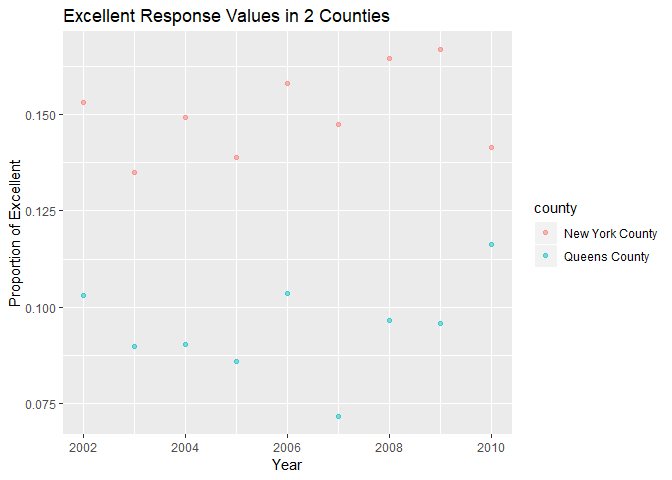
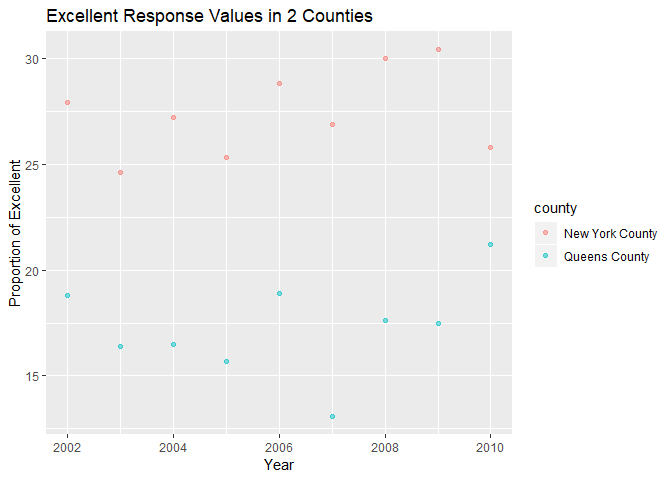
changed proportion variable

diff --git a/p8105_hw2_ph2538.md b/p8105_hw2_ph2538.md
@@ -305,7 +305,7 @@ janitor::clean_names(brfss_smart2010)
     ## #   question_id <chr>, respid <chr>, geo_location <chr>
 
 ``` r
-#focus on the “Overall Health” topic
+#focus on the Overall Health topic
 #exclude variables for class, topic, question, sample size, and everything from lower confidence limit to GeoLocation
 #structure data so that responses (excellent to poor) are variables taking the value of Data_value
 
@@ -315,26 +315,19 @@ clean_brfss = filter(brfss_smart2010, Topic == "Overall Health") %>%
   separate(Locationdesc, into = c("state", "county"), sep = " - ") %>%
   select(-Locationabbr)
 
-#create a new variable showing the proportion of responses that were “Excellent” or “Very Good”
+#create a new variable showing the proportion of responses that were Excellent or Very Good
 clean_brfss$exc_vgood_proportion = (
-  clean_brfss$Excellent + clean_brfss$'Very good') / 
-  sum(clean_brfss$Excellent:clean_brfss$'Very good')
+  clean_brfss$Excellent + clean_brfss$'Very good') 
 ```
-
-    ## Warning in clean_brfss$Excellent:clean_brfss$"Very good": numerical
-    ## expression has 2125 elements: only the first used
-    
-    ## Warning in clean_brfss$Excellent:clean_brfss$"Very good": numerical
-    ## expression has 2125 elements: only the first used
 
 ### Questions for Problem 3
 
-|                                                                                                                                                                      |
-| -------------------------------------------------------------------------------------------------------------------------------------------------------------------- |
-| 1\. How many unique locations are included in the dataset? Is every state represented? What state is observed the most?                                              |
-| 2\. In 2002, what is the median of the “Excellent” response value?                                                                                                   |
-| 3\. Make a histogram of “Excellent” response values in the year 2002.                                                                                                |
-| 4\. Make a scatterplot showing the proportion of “Excellent” response values in New York County and Queens County (both in NY State) in each year from 2002 to 2010. |
+|                                                                                                                                                                    |
+| ------------------------------------------------------------------------------------------------------------------------------------------------------------------ |
+| 1\. How many unique locations are included in the dataset? Is every state represented? What state is observed the most?                                            |
+| 2\. In 2002, what is the median of the Excellent response value?                                                                                                   |
+| 3\. Make a histogram of Excellent response values in the year 2002.                                                                                                |
+| 4\. Make a scatterplot showing the proportion of Excellent response values in New York County and Queens County (both in NY State) in each year from 2002 to 2010. |
 
 ``` r
 #How many unique locations are included in the dataset? Is every state represented? What state is observed the most?
@@ -371,7 +364,7 @@ The results show that New Jersey is observed the most with 146
 observations.
 
 ``` r
-#In 2002, what is the median of the “Excellent” response value?
+#In 2002, what is the median of the Excellent response value?
 
 brfss_2002 = filter(clean_brfss, Year == '2002')
 median(brfss_2002$Excellent, na.rm = TRUE)
@@ -384,7 +377,7 @@ median(brfss_2002$Excellent, na.rm = TRUE)
 #### Question 3
 
 ``` r
-#Make a histogram of “Excellent” response values in the year 2002.
+#Make a histogram of Excellent response values in the year 2002.
 ggplot(brfss_2002, aes(x = Excellent)) + geom_histogram() + labs(title = "Excellent Response Values in 2002")
 ```
 
@@ -397,23 +390,11 @@ ggplot(brfss_2002, aes(x = Excellent)) + geom_histogram() + labs(title = "Excell
 #### Question 4
 
 ``` r
-#Make a scatterplot showing the proportion of “Excellent” response values in New York County and Queens County (both in NY State) in each year from 2002 to 2010.
+#Make a scatterplot showing the proportion of Excellent response values in New York County and Queens County (both in NY State) in each year from 2002 to 2010.
 
-clean_brfss$exc_proportion = (
-  clean_brfss$Excellent) /
-  sum(clean_brfss$Excellent:clean_brfss$'Very good')
-```
-
-    ## Warning in clean_brfss$Excellent:clean_brfss$"Very good": numerical
-    ## expression has 2125 elements: only the first used
-    
-    ## Warning in clean_brfss$Excellent:clean_brfss$"Very good": numerical
-    ## expression has 2125 elements: only the first used
-
-``` r
 brfss_NYC_Queens = filter(clean_brfss, county == "New York County" | county == "Queens County")
 
-ggplot(brfss_NYC_Queens, aes(x = Year, y = exc_proportion)) + geom_point(aes(color = county), alpha = .5) + labs(title = "Excellent Response Values in 2 Counties", y ="Proportion of Excellent")
+ggplot(brfss_NYC_Queens, aes(x = Year, y = Excellent)) + geom_point(aes(color = county), alpha = .5) + labs(title = "Excellent Response Values in 2 Counties", y ="Proportion of Excellent")
 ```
 
 ![](p8105_hw2_ph2538_files/figure-gfm/scatterplot-1.png)<!-- -->
